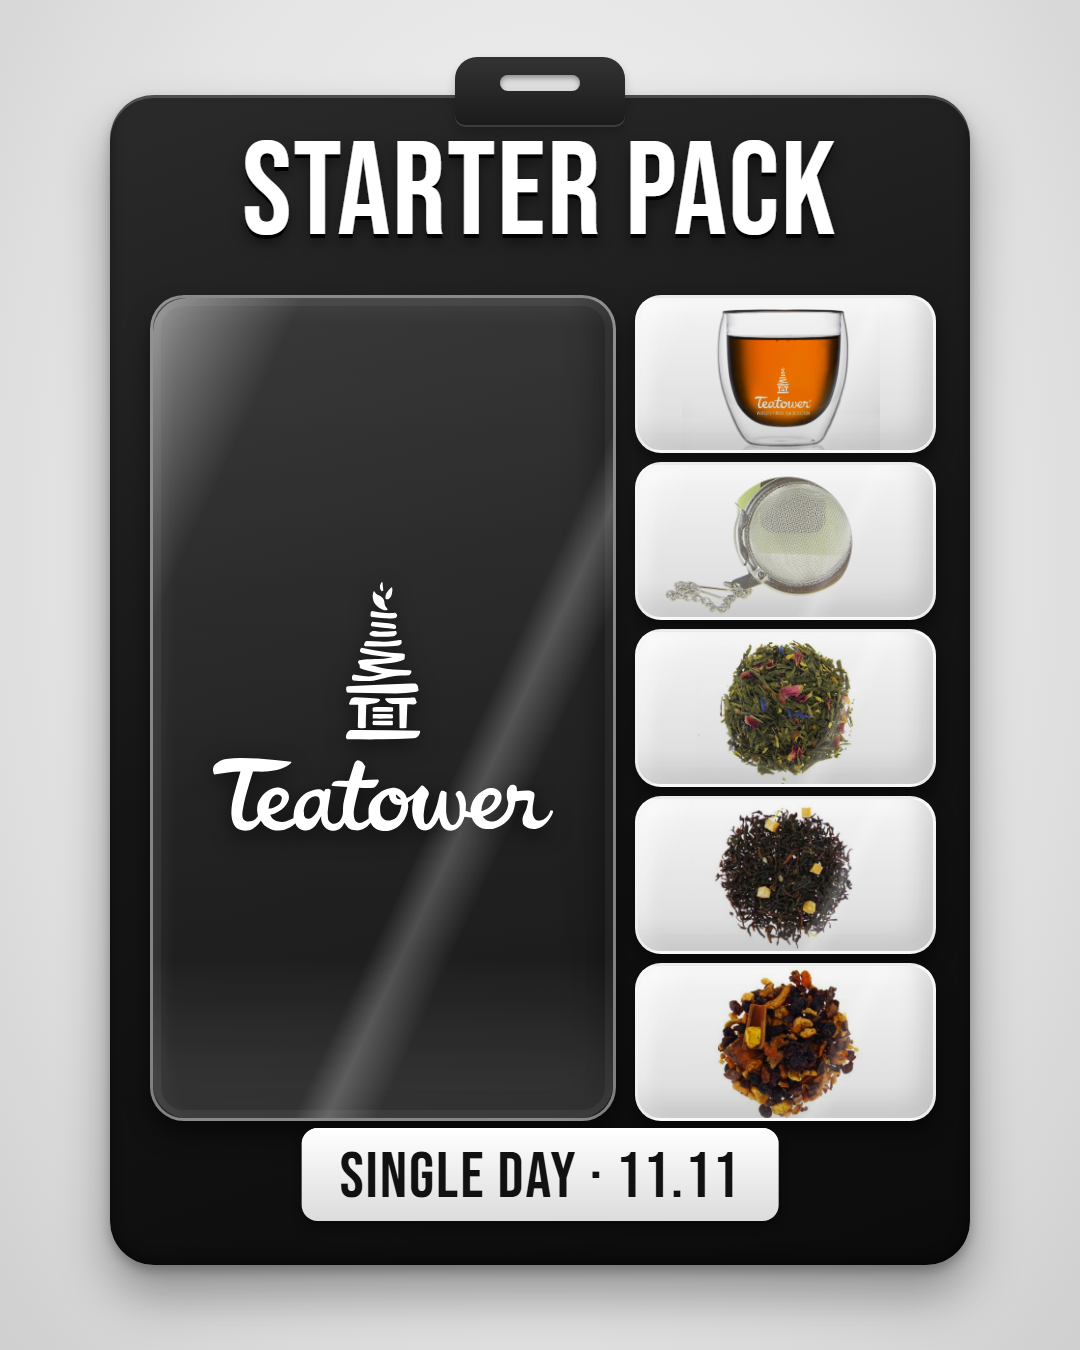
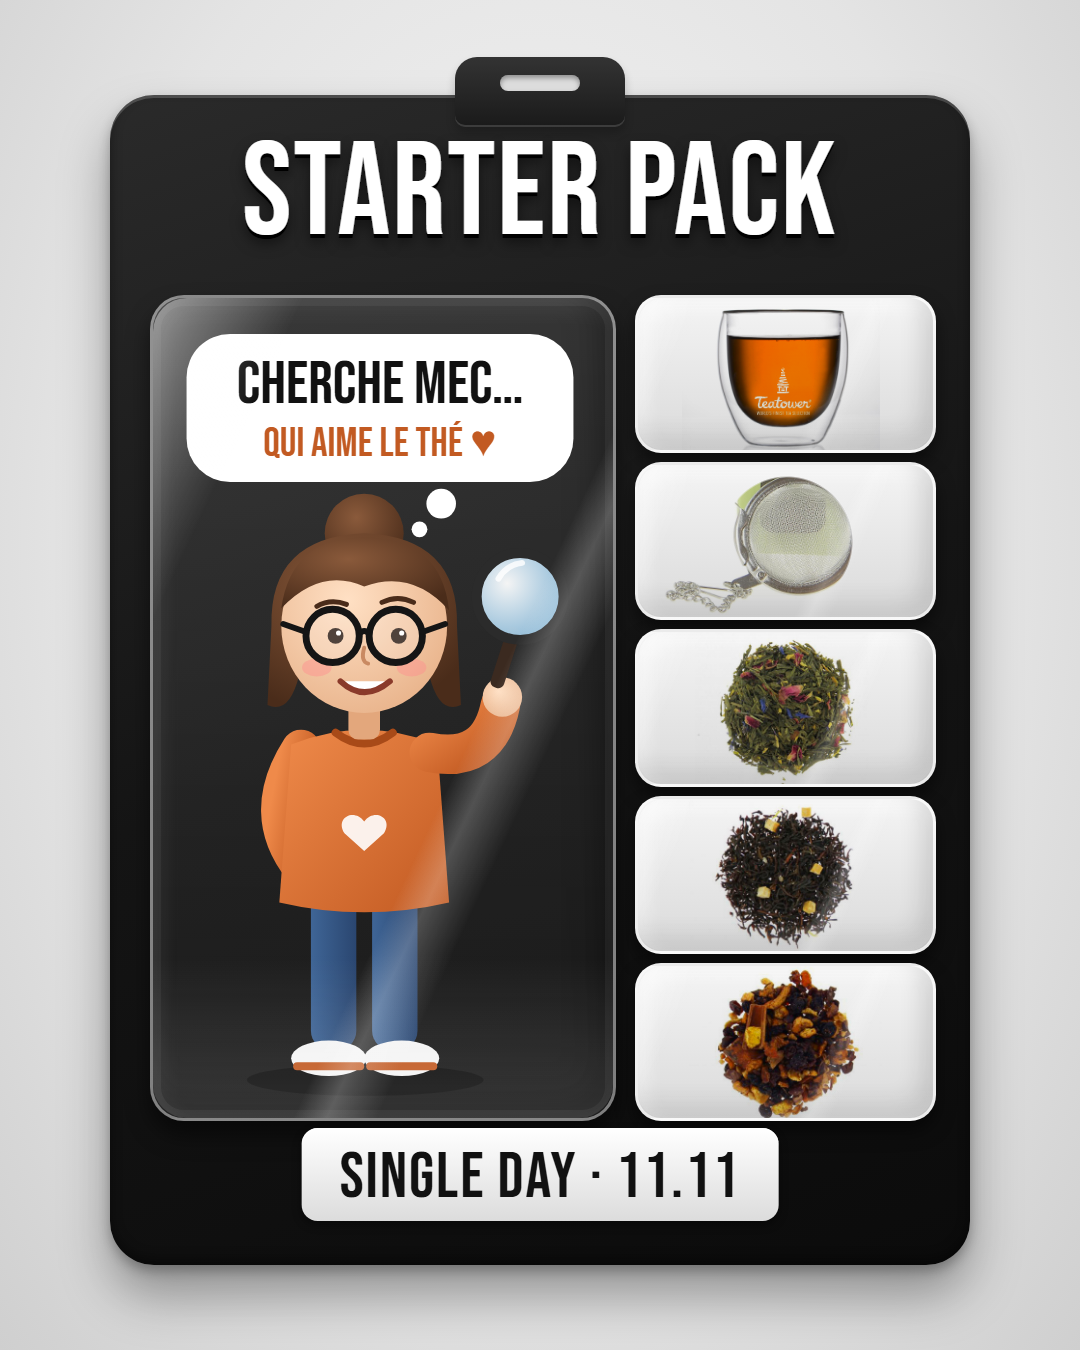
Marketing : starter pack Single Day v5 avec personnage (célibataire à lunettes + loupe)

Changed region(s): [[0.1528, 0.2489, 0.55, 0.8089]]

diff --git a/marketing/single_day_2026/starter_pack_single_day.html b/marketing/single_day_2026/starter_pack_single_day.html
@@ -61,9 +61,90 @@
     <div class="tab"></div>
     <div class="title">STARTER PACK</div>
 
-    <!-- logo Teatower -->
+    <!-- personnage : célibataire à lunettes qui cherche un mec -->
     <div class="bub main">
-      <img class="logo" src="img/logo_blanc.svg" alt="Teatower" style="left:60px;width:340px;top:284px">
+      <svg class="perso" viewBox="0 0 460 820" width="454" height="814" style="position:absolute;left:0;top:0">
+        <defs>
+          <radialGradient id="skin" cx="40%" cy="35%" r="70%"><stop offset="0" stop-color="#ffe0c4"/><stop offset="1" stop-color="#e9b48c"/></radialGradient>
+          <radialGradient id="hair" cx="40%" cy="30%" r="75%"><stop offset="0" stop-color="#8a5a3b"/><stop offset="1" stop-color="#4a2c1a"/></radialGradient>
+          <linearGradient id="pull" x1="0" y1="0" x2="1" y2="1"><stop offset="0" stop-color="#ef8a4a"/><stop offset="1" stop-color="#c25a22"/></linearGradient>
+          <linearGradient id="jean" x1="0" y1="0" x2="1" y2="0"><stop offset="0" stop-color="#3f6596"/><stop offset="1" stop-color="#2a4670"/></linearGradient>
+          <radialGradient id="lens" cx="35%" cy="35%" r="70%"><stop offset="0" stop-color="#ffffff" stop-opacity=".95"/><stop offset="1" stop-color="#9fd3f5" stop-opacity=".85"/></radialGradient>
+        </defs>
+
+        <!-- bulle de pensée -->
+        <g>
+          <rect x="34" y="34" width="392" height="150" rx="44" fill="#fff"/>
+          <circle cx="292" cy="206" r="15" fill="#fff"/>
+          <circle cx="270" cy="232" r="8" fill="#fff"/>
+          <text x="230" y="104" text-anchor="middle" font-family="'Bebas Neue',Impact,sans-serif" font-size="62" fill="#111">CHERCHE MEC…</text>
+          <text x="230" y="158" text-anchor="middle" font-family="'Bebas Neue',Impact,sans-serif" font-size="42" fill="#c25a22">QUI AIME LE THÉ ♥</text>
+        </g>
+
+        <!-- ombre au sol -->
+        <ellipse cx="215" cy="790" rx="120" ry="16" fill="#000" opacity=".45"/>
+
+        <!-- jambes -->
+        <rect x="160" y="590" width="46" height="170" rx="20" fill="url(#jean)"/>
+        <rect x="222" y="590" width="46" height="170" rx="20" fill="url(#jean)"/>
+        <!-- baskets -->
+        <ellipse cx="178" cy="768" rx="38" ry="18" fill="#f4f4f4"/>
+        <ellipse cx="252" cy="768" rx="38" ry="18" fill="#f4f4f4"/>
+        <rect x="142" y="772" width="72" height="8" rx="4" fill="#c25a22"/>
+        <rect x="216" y="772" width="72" height="8" rx="4" fill="#c25a22"/>
+
+        <!-- bras gauche (main sur la hanche) -->
+        <path d="M150 455 Q108 520 152 575" stroke="url(#pull)" stroke-width="40" fill="none" stroke-linecap="round"/>
+        <circle cx="160" cy="578" r="19" fill="url(#skin)"/>
+
+        <!-- pull -->
+        <path d="M140 450 Q214 420 288 450 L300 610 Q214 630 128 610 Z" fill="url(#pull)"/>
+        <path d="M185 438 Q214 460 243 438" stroke="#a84a18" stroke-width="8" fill="none" stroke-linecap="round"/>
+        <!-- petit cœur sur le pull -->
+        <path d="M214 528 c-10 -14 -30 -4 -20 12 l20 18 l20 -18 c10 -16 -10 -26 -20 -12 z" fill="#fff" opacity=".9"/>
+
+        <!-- bras droit levé avec la loupe -->
+        <path d="M280 458 Q340 470 352 410" stroke="url(#pull)" stroke-width="40" fill="none" stroke-linecap="round"/>
+        <circle cx="354" cy="402" r="20" fill="url(#skin)"/>
+        <!-- loupe -->
+        <rect x="350" y="330" width="14" height="64" rx="6" fill="#3b2a20" transform="rotate(18 357 362)"/>
+        <circle cx="372" cy="300" r="44" fill="url(#lens)" stroke="#2b2b2b" stroke-width="10"/>
+        <path d="M350 282 Q358 268 374 266" stroke="#fff" stroke-width="6" fill="none" stroke-linecap="round" opacity=".8"/>
+
+        <!-- cou -->
+        <rect x="198" y="405" width="32" height="40" rx="10" fill="#e3a77c"/>
+
+        <!-- cheveux arrière + chignon -->
+        <circle cx="214" cy="236" r="40" fill="url(#hair)"/>
+        <path d="M120 330 Q118 240 214 236 Q310 240 308 330 L312 410 Q290 420 280 380 L148 380 Q138 420 116 410 Z" fill="url(#hair)"/>
+
+        <!-- tête -->
+        <ellipse cx="214" cy="330" rx="84" ry="88" fill="url(#skin)"/>
+        <!-- frange -->
+        <path d="M130 312 Q140 240 214 240 Q292 240 300 314 Q262 272 214 290 Q170 270 130 312 Z" fill="url(#hair)"/>
+
+        <!-- joues -->
+        <ellipse cx="166" cy="372" rx="15" ry="9" fill="#ff8f8f" opacity=".45"/>
+        <ellipse cx="262" cy="372" rx="15" ry="9" fill="#ff8f8f" opacity=".45"/>
+
+        <!-- yeux (regard vers la loupe) -->
+        <circle cx="185" cy="340" r="8" fill="#2a1a12"/><circle cx="188" cy="337" r="2.6" fill="#fff"/>
+        <circle cx="249" cy="340" r="8" fill="#2a1a12"/><circle cx="252" cy="337" r="2.6" fill="#fff"/>
+        <!-- sourcils -->
+        <path d="M166 310 Q180 302 196 308" stroke="#4a2c1a" stroke-width="5" fill="none" stroke-linecap="round"/>
+        <path d="M232 306 Q248 298 264 306" stroke="#4a2c1a" stroke-width="5" fill="none" stroke-linecap="round"/>
+
+        <!-- lunettes -->
+        <circle cx="182" cy="340" r="27" fill="rgba(255,255,255,.18)" stroke="#151515" stroke-width="7"/>
+        <circle cx="246" cy="340" r="27" fill="rgba(255,255,255,.18)" stroke="#151515" stroke-width="7"/>
+        <path d="M209 338 Q214 332 219 338" stroke="#151515" stroke-width="6" fill="none"/>
+        <path d="M155 336 L132 328" stroke="#151515" stroke-width="6" stroke-linecap="round"/>
+        <path d="M273 336 L296 328" stroke="#151515" stroke-width="6" stroke-linecap="round"/>
+
+        <!-- nez + sourire -->
+        <path d="M214 352 Q210 366 218 368" stroke="#c98a62" stroke-width="4" fill="none" stroke-linecap="round"/>
+        <path d="M190 386 Q214 408 240 386" stroke="#8a3a2a" stroke-width="6" fill="#fff" stroke-linecap="round"/>
+      </svg>
       <div class="gloss"></div>
     </div>
 
